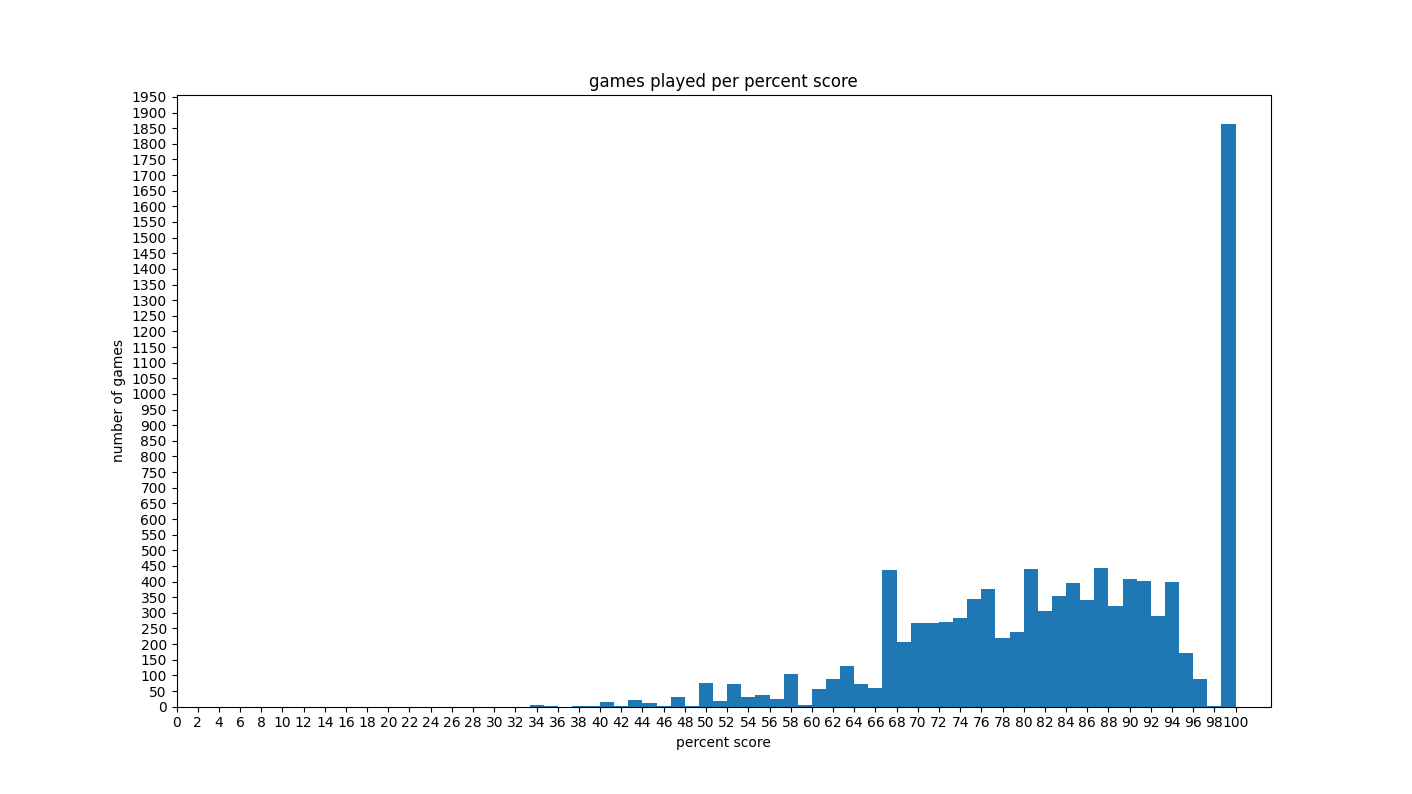
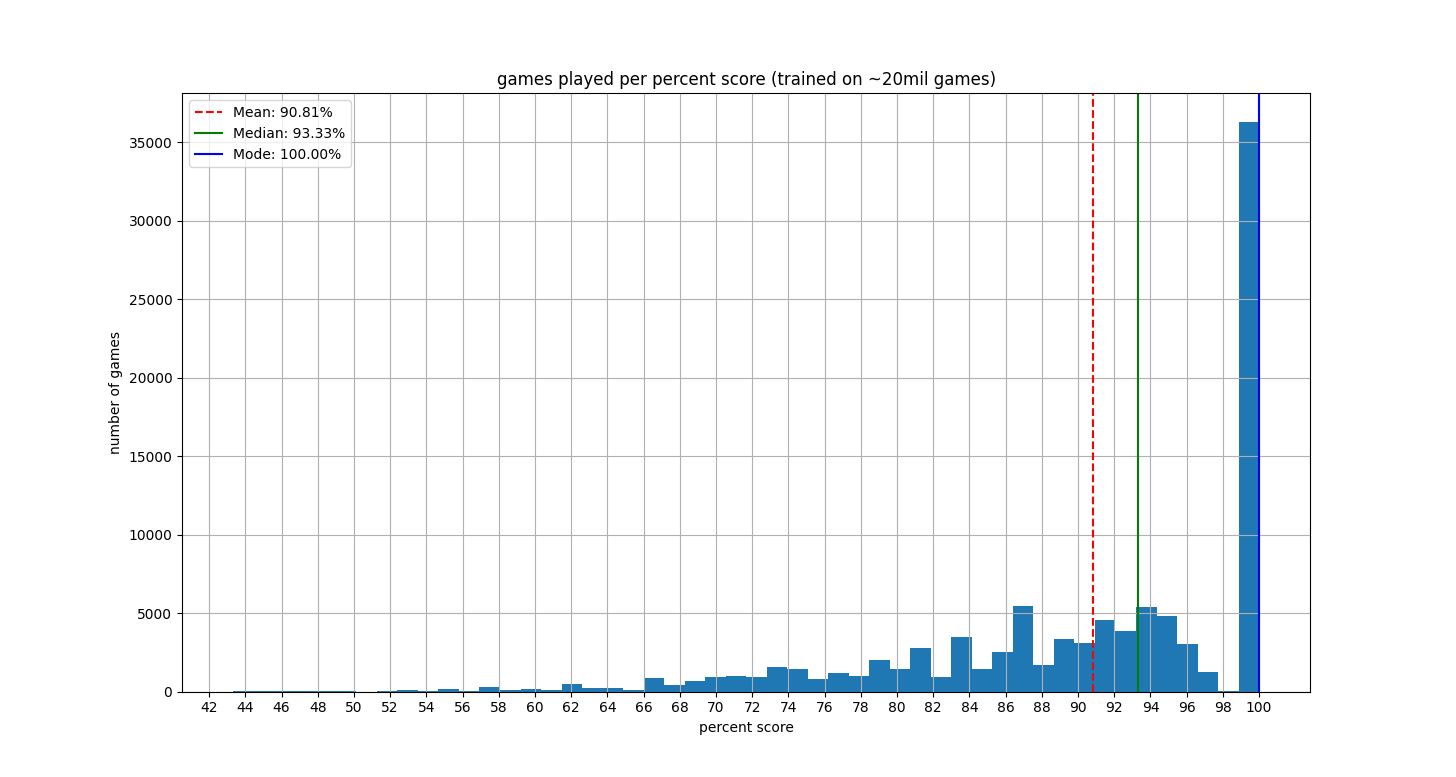
train simple q on digit party for 20 mil games, update graph results

diff --git a/src/games/digit_party/run.py b/src/games/digit_party/run.py
@@ -1,5 +1,6 @@
 from typing import List
 
+import pandas as pd
 from matplotlib import pyplot as plt
 from typing_extensions import override
 
@@ -112,17 +113,18 @@ class DigitPartyQTrainer(DigitParty, Trainer):
         self.reset()
 
 
-def trained_game(game_size: int) -> None:
+def q_trained_game(game_size: int) -> None:
     # there's too many states in default digit party, so naive q learning is inexhaustive and doesn't work well
-    # this type of naive training kinda maxes out at a 3x3 game, of around 60-65% of the max score.
+    # we can train a 3x3 game reasonably well, but it's very memory inefficient, since it needs to keep track
+    # of all possible digit party states. after 20 million games, the policy file is about 5 GB
     # for a 2x2 game, the result is trivially 100%
     q = DigitPartyQLearner(
         game_size,
-        q_pickle=f"src/games/digit_party/q-{game_size}x{game_size}.pkl",
+        q_pickle=f"src/games/digit_party/q-{game_size}x{game_size}-test.pkl",
         epsilon=0.5,
     )
     g = DigitPartyQTrainer(player=q, n=game_size)
-    g.train(episodes=1000000)
+    g.train(episodes=0)
 
     while not g.is_finished():
         print(f"\n{g.show_board()}\n")
@@ -139,12 +141,9 @@ def trained_game(game_size: int) -> None:
     print(f"theoretical max score: {g.theoretical_max_score()}")
     print(f"% of total: {100 * g.score / g.theoretical_max_score():.2f}")
 
-
-def many_trained_games(game_size: int, games=10000) -> None:
-    q = DigitPartyQLearner(
-        game_size, q_pickle=f"src/games/digit_party/q-{game_size}x{game_size}.pkl"
-    )
-    g = DigitPartyQTrainer(player=q, n=game_size)
+    # run a lot of games to get some data on the performance
+    games = 100_000
+    g.reset()
 
     score = 0
     theoretical_max = 0
@@ -166,15 +165,33 @@ def many_trained_games(game_size: int, games=10000) -> None:
             print(f"Episode {e}/{games}")
 
     percent = score / theoretical_max
-    average = percent_per_game / games
     print(f"played {games} games")
     print(f"achieved {100 * percent:.2f}% or {score}/{theoretical_max}")
-    print(f"averaged {100 * average:.2f}% of theoretical max")
 
-    plt.hist(percentages, bins=50)
+    df = pd.DataFrame({"percentages": percentages})
+    mean = df["percentages"].mean()
+    median = df["percentages"].median()
+    mode = df["percentages"].mode().values[0]
+
+    print(f"averaged {mean:.2f}% of theoretical max")
+    print(f"median: {median:.2f}%")
+    print(f"mode: {mode:.2f}%")
+
+    plt.hist(df, bins=50)
     plt.xticks(range(0, 101, 2))
-    plt.yticks(range(0, 2000, 50))
-    plt.title("games played per percent score")
+    plt.locator_params(axis="x", nbins=100)
+    plt.title("games played per percent score (untrained)")
     plt.xlabel("percent score")
     plt.ylabel("number of games")
+    plt.axvline(mean, color="r", linestyle="--", label="Mean")
+    plt.axvline(median, color="g", linestyle="-", label="Median")
+    plt.axvline(mode, color="b", linestyle="-", label="Mode")
+    plt.legend(
+        {
+            f"Mean: {mean:.2f}%": mean,
+            f"Median: {median:.2f}%": median,
+            f"Mode: {mode:.2f}%": mode,
+        }
+    )
+    plt.grid()
     plt.show()

diff --git a/src/__main__.py b/src/__main__.py
@@ -1,10 +1,8 @@
 # from games.digit_party.run import human_game as digit_party_human_game
-# from games.digit_party.run import many_trained_games as digit_party_many_trained_games
-# from games.digit_party.run import trained_game as digit_party_trained_game
+from games.digit_party.run import q_trained_game as digit_party_trained_game
 
 # digit_party_human_game()
-# digit_party_trained_game(game_size=3)
-# digit_party_many_trained_games(game_size=3)
+digit_party_trained_game(game_size=3)
 
 # from games.random_walk.random_walk import q_trained_game as random_walk_trained_game
 
@@ -16,6 +14,6 @@
 # ttt_mc_trained_game(training_episodes=1000000)
 # ttt_mc_many_games()
 
-from games.ultimate_ttt.run import alpha_zero_trained_game
+# from games.ultimate_ttt.run import alpha_zero_trained_game
 
-alpha_zero_trained_game()
+# alpha_zero_trained_game()

diff --git a/src/games/digit_party/game.py b/src/games/digit_party/game.py
@@ -237,7 +237,7 @@ class DigitParty(Game[DigitPartyState, DigitPartyIR]):
         # TODO: do this per placement instead of per board render. though it doesn't matter much since the game isn't meant to be played by users
         for r in range(len(matrix)):
             for c in range(len(matrix[0])):
-                if matrix[r][c] != Empty:
+                if isinstance(matrix[r][c], Digit):
                     continue
 
                 self._add_connection(r, c, matrix)
